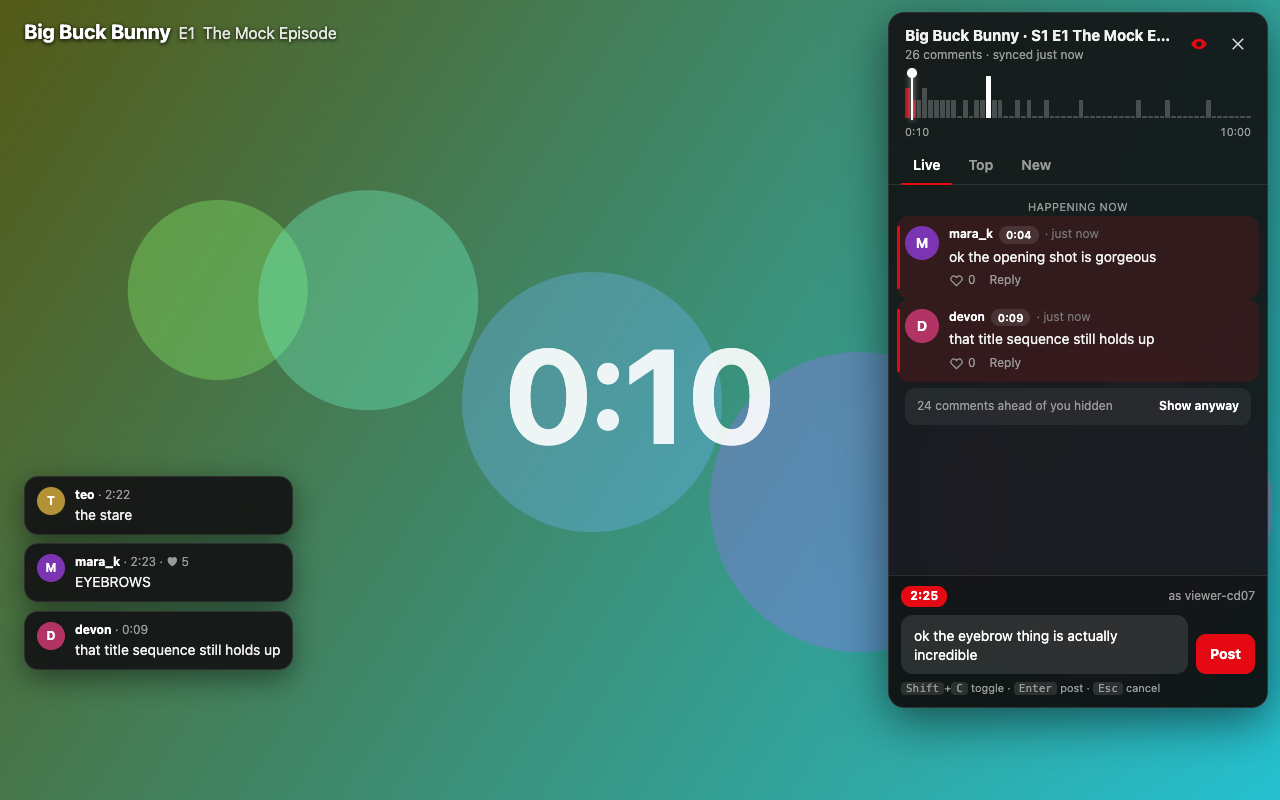
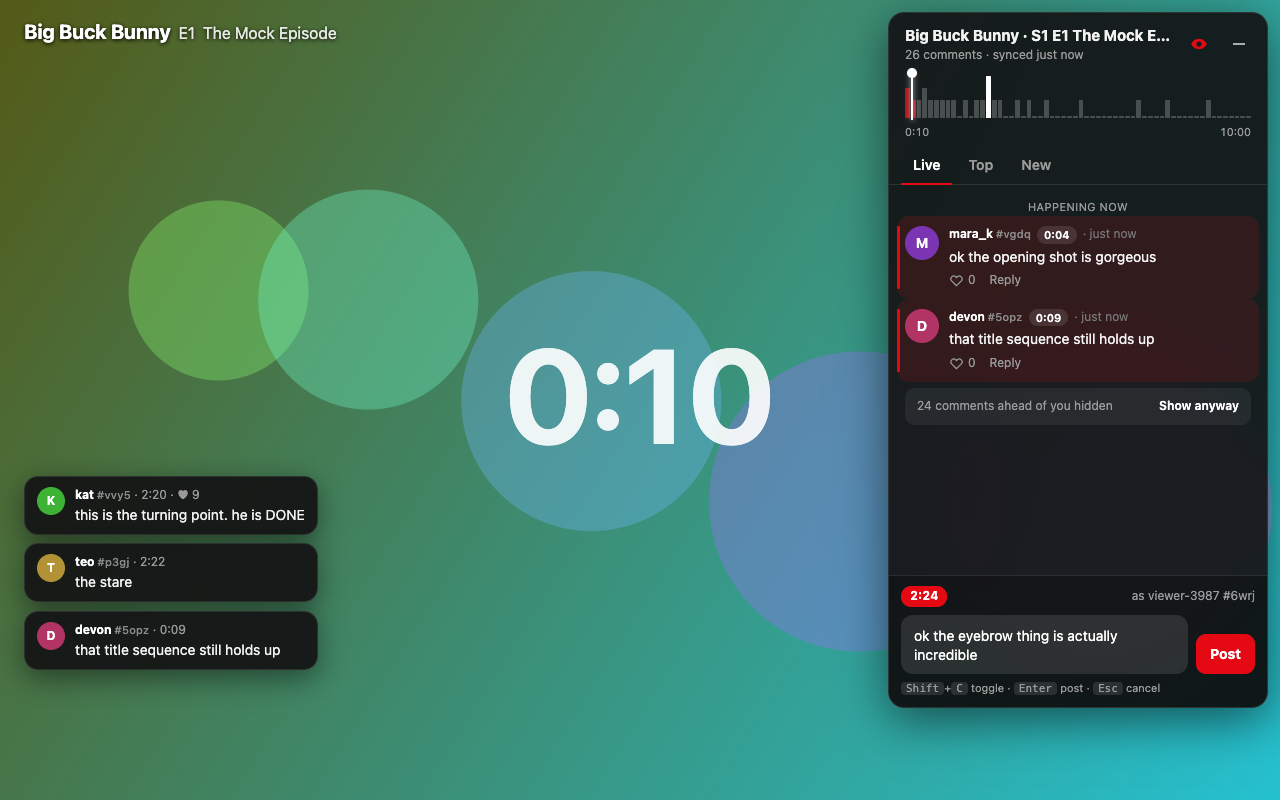
0.1.4: simpler popup (server URLs under Advanced), always pause while typing, minimize glyph, histogram folds to strip width, inject into open tabs on install
Claude-Session: https://claude.ai/code/session_01PgkiHjZ5KdUR33NwcsYLor

diff --git a/dev/inject.js b/dev/inject.js
@@ -33,7 +33,7 @@
     const top = comments.filter((c) => c.parentId == null).sort((a, b) => b.likeCount - a.likeCount);
     mem.local['title:' + vid] = { meta: { videoId: vid, name: '', duration, count: top.length, totalWithReplies: comments.length, bucketSeconds: B, bucketCounts, histSeconds: HS, hist, top, newest: [...top].sort((a, b) => b.createdAt - a.createdAt), generatedAt: Date.now() - 60e3 }, buckets, mine: [], likes: {}, deleted: {}, savedAt: Date.now() };
   }
-  mem.sync.settings = { readBase: "http://localhost:3131", writeBase: "http://localhost:3131", displayName: 'chad', spoilerGuard: true, showToasts: true, pauseOnCompose: true, panelOpen: true };
+  mem.sync.settings = { readBase: "http://localhost:3131", writeBase: "http://localhost:3131", displayName: 'chad', spoilerGuard: true, showToasts: true, panelOpen: true };
 })();
 
 // Shared helpers for the content scripts. Everything lives under window.NFC to avoid globals.
@@ -58,6 +58,9 @@ window.NFC = window.NFC || {};
   NFC.hash = (s) => { let h = 0; for (const ch of String(s)) h = (h * 31 + ch.charCodeAt(0)) | 0; return Math.abs(h); };
   NFC.avatarColor = (id) => `hsl(${NFC.hash(id) % 360} 55% 45%)`;
   NFC.initial = (name) => (String(name || '?').trim()[0] || '?').toUpperCase();
+  // Short tag derived from the hidden per-install id. Two people can pick the same display name, but their
+  // tags differ, and nobody can copy a tag without the id behind it.
+  NFC.tag = (id) => '#' + NFC.hash('tag:' + id).toString(36).slice(-4).padStart(4, '0');
 
   NFC.timeAgo = (ts) => {
     const d = Math.max(0, Date.now() - ts) / 1000;
@@ -257,6 +260,7 @@ button:focus-visible, textarea:focus-visible { outline: 2px solid var(--red); ou
 .meta { display: flex; align-items: center; gap: 6px; font-size: 12px; color: var(--muted); flex-wrap: wrap; }
 .meta .who { color: #fff; font-weight: 600; }
 .meta .age { color: #777; }
+.tag { color: #8a8a8a; font-weight: 500; font-size: 11px; margin-left: 3px; letter-spacing: .02em; }
 .meta .you { background: var(--bg3); color: #fff; font-size: 10px; padding: 0 5px; border-radius: 4px; font-weight: 600; }
 .tpill { background: var(--bg3); color: #fff; font-variant-numeric: tabular-nums; font-size: 11px; font-weight: 600; padding: 1px 7px; border-radius: 10px; }
 .tpill:hover { background: var(--red); }
@@ -313,7 +317,6 @@ kbd { background: var(--bg3); border-radius: 4px; padding: 0 5px; font: 11px ui-
     writeBase: 'https://netflix-comments-api.katzen-chad.workers.dev',
     spoilerGuard: true,
     showToasts: true,
-    pauseOnCompose: true,
     panelOpen: true,
   };
   const META_TTL = 45_000, BUCKET_TTL = 60_000, MINE_TTL = 15 * 60_000, CACHE_TITLES = 25;
@@ -629,7 +632,7 @@ kbd { background: var(--bg3); border-radius: 4px; padding: 0 5px; font: 11px ui-
 
   const ICON = {
     chat: '<svg viewBox="0 0 24 24"><path d="M4 4h16a2 2 0 0 1 2 2v9a2 2 0 0 1-2 2H9l-5 4v-4H4a2 2 0 0 1-2-2V6a2 2 0 0 1 2-2z"/></svg>',
-    close: '<svg viewBox="0 0 24 24"><path d="M18.3 5.7 12 12l6.3 6.3-1.4 1.4L10.6 13.4 4.3 19.7 2.9 18.3 9.2 12 2.9 5.7l1.4-1.4 6.3 6.3 6.3-6.3z"/></svg>',
+    close: '<svg viewBox="0 0 24 24"><path d="M4 11h16v2H4z"/></svg>',
     eye: '<svg viewBox="0 0 24 24"><path d="M12 5c5 0 9 4 10.5 7-1.5 3-5.5 7-10.5 7S3 15 1.5 12C3 9 7 5 12 5zm0 3.5a3.5 3.5 0 1 0 0 7 3.5 3.5 0 0 0 0-7z"/></svg>',
     eyeOff: '<svg viewBox="0 0 24 24"><path d="M2.3 3.7 3.7 2.3l18 18-1.4 1.4-3.3-3.3C15.5 19.3 13.8 19.7 12 19.7 7 19.7 3 15.7 1.5 12.7c.8-1.6 2.2-3.4 4-4.9zM12 5.3c5 0 9 4 10.5 7.4-.6 1.2-1.5 2.5-2.7 3.7l-2.6-2.6a3.8 3.8 0 0 0-4.5-4.5L9.9 6.5c.7-.8 1.4-1.2 2.1-1.2z"/></svg>',
     heart: '<svg viewBox="0 0 24 24"><path d="M12 20.3 4.3 12.6a4.6 4.6 0 0 1 6.5-6.5L12 7.3l1.2-1.2a4.6 4.6 0 0 1 6.5 6.5z"/></svg>',
@@ -679,7 +682,7 @@ kbd { background: var(--bg3); border-radius: 4px; padding: 0 5px; font: 11px ui-
   <div class="hdr">
     <div class="ttl"><div class="name">Community Swim</div><div class="sub">loading…</div></div>
     <button class="ib spoiler on" title="Spoiler guard: hiding comments ahead of you">${ICON.eye}</button>
-    <button class="ib close" title="Hide (Shift+C)">${ICON.close}</button>
+    <button class="ib close" title="Minimize (Shift+C)">${ICON.close}</button>
   </div>
   <div class="strip" title="Comment density. Click to seek."><div class="hist"></div><div class="play"></div><div class="tt">0:00</div></div>
   <div class="times"><span class="t-now">0:00</span><span class="t-end">0:00</span></div>
@@ -723,6 +726,7 @@ kbd { background: var(--bg3); border-radius: 4px; padding: 0 5px; font: 11px ui-
         this.renderList(true);
         this.el.list.scrollTop = 0;
       });
+      if (typeof ResizeObserver !== 'undefined') new ResizeObserver(() => this.renderStrip()).observe(this.el.strip);
       this.el.strip.addEventListener('mousemove', (e) => {
         const r = this.el.strip.getBoundingClientRect();
         const f = Math.min(1, Math.max(0, (e.clientX - r.left) / r.width));
@@ -782,7 +786,7 @@ kbd { background: var(--bg3); border-radius: 4px; padding: 0 5px; font: 11px ui-
     }
     applySettings() {
       const s = store.settings;
-      this.$('.who-am-i').textContent = 'as ' + store.displayName();
+      this.$('.who-am-i').textContent = 'as ' + store.displayName() + ' ' + NFC.tag(store.user.userId);
       if (this.el.drawer.classList.contains('hide') === !!s.panelOpen) {
         this.el.drawer.classList.toggle('hide', !s.panelOpen);
         this.el.pill.classList.toggle('hide', !!s.panelOpen);
@@ -852,22 +856,24 @@ kbd { background: var(--bg3); border-radius: 4px; padding: 0 5px; font: 11px ui-
 
     renderStrip() {
       const hist = this.title?.meta?.hist ?? [];
-      const max = Math.max(1, ...hist);
-      if (this.el.hist.childElementCount !== hist.length) {
-        this.el.hist.innerHTML = hist.map(() => '<i></i>').join('');
-      }
+      // One bar per 10-s bin overflows the strip on long titles (a 42-min episode is 253 bins), which
+      // stretches the scale. Fold bins into however many 3-px bars fit the strip width instead.
+      const width = this.el.strip.clientWidth || 320;
+      const n = hist.length ? Math.min(hist.length, Math.max(24, Math.floor(width / 3))) : 0;
+      const bins = new Array(n).fill(0);
+      for (let i = 0; i < hist.length; i++) bins[Math.min(n - 1, Math.floor((i / hist.length) * n))] += hist[i];
+      const max = Math.max(1, ...bins);
+      if (this.el.hist.childElementCount !== n) this.el.hist.innerHTML = bins.map(() => '<i></i>').join('');
       const bars = this.el.hist.children;
-      for (let i = 0; i < hist.length; i++) {
-        const h = hist[i] ? 6 + Math.round((hist[i] / max) * 36) : 2;
-        bars[i].style.height = h + 'px';
-        bars[i].classList.toggle('hot', hist[i] >= max * 0.8 && hist[i] > 2);
+      for (let i = 0; i < n; i++) {
+        bars[i].style.height = (bins[i] ? 6 + Math.round((bins[i] / max) * 36) : 2) + 'px';
+        bars[i].classList.toggle('hot', bins[i] >= max * 0.8 && bins[i] > 2);
       }
       this.renderStripProgress();
     }
     renderStripProgress() {
-      const hs = this.title?.meta?.histSeconds ?? 10;
-      const idx = Math.floor(this.now / hs);
       const bars = this.el.hist.children;
+      const idx = this.duration ? Math.floor((this.now / this.duration) * bars.length) : -1;
       for (let i = 0; i < bars.length; i++) bars[i].classList.toggle('past', i <= idx);
     }
 
@@ -924,7 +930,7 @@ kbd { background: var(--bg3); border-radius: 4px; padding: 0 5px; font: 11px ui-
 <div class="${cls}" data-id="${esc(c.id)}">
   <div class="av" style="background:${avatarColor(c.authorId)}">${esc(initial(c.authorName))}</div>
   <div class="bd">
-    <div class="meta"><span class="who">${esc(c.authorName)}</span>${c.mine ? '<span class="you">you</span>' : ''}${isReply ? '' : `<button class="tpill" data-act="seek" data-t="${c.t}" title="Jump to ${fmtTime(c.t)}">${fmtTime(c.t)}</button>`}<span class="age">· ${timeAgo(c.createdAt)}${status}</span></div>
+    <div class="meta"><span class="who">${esc(c.authorName)}<span class="tag">${NFC.tag(c.authorId)}</span></span>${c.mine ? '<span class="you">you</span>' : ''}${isReply ? '' : `<button class="tpill" data-act="seek" data-t="${c.t}" title="Jump to ${fmtTime(c.t)}">${fmtTime(c.t)}</button>`}<span class="age">· ${timeAgo(c.createdAt)}${status}</span></div>
     <div class="txt">${esc(c.body)}</div>
     <div class="acts">
       <button class="like ${c.liked ? 'on' : ''}" data-act="like" ${canAct ? '' : 'disabled'}>${ICON.heart}<span>${compact(c.likeCount ?? 0)}</span></button>
@@ -962,7 +968,7 @@ kbd { background: var(--bg3); border-radius: 4px; padding: 0 5px; font: 11px ui-
     // ---------- composer ----------
     beginCompose() {
       if (this.composeT == null) { this.composeT = this.replyTo ? this.replyTo.t : this.now; this.el.at.textContent = fmtTime(this.composeT); }
-      if (store.settings.pauseOnCompose && this.video && !this.video.paused) {
+      if (this.video && !this.video.paused) {
         try { NFC.site.pause(this.video); this.pausedByUs = true; } catch { /* ignore */ }
       }
     }
@@ -1011,7 +1017,7 @@ kbd { background: var(--bg3); border-radius: 4px; padding: 0 5px; font: 11px ui-
     toast(c) {
       const el = document.createElement('div');
       el.className = 'toast'; el.dataset.id = c.id;
-      el.innerHTML = `<div class="av" style="background:${avatarColor(c.authorId)}">${esc(initial(c.authorName))}</div><div><div class="who"><b>${esc(c.authorName)}</b> · ${fmtTime(c.t)}${c.likeCount ? ` · ♥ ${compact(c.likeCount)}` : ''}</div><div class="txt">${esc(c.body)}</div></div>`;
+      el.innerHTML = `<div class="av" style="background:${avatarColor(c.authorId)}">${esc(initial(c.authorName))}</div><div><div class="who"><b>${esc(c.authorName)}</b><span class="tag">${NFC.tag(c.authorId)}</span> · ${fmtTime(c.t)}${c.likeCount ? ` · ♥ ${compact(c.likeCount)}` : ''}</div><div class="txt">${esc(c.body)}</div></div>`;
       this.el.toasts.appendChild(el);
       while (this.el.toasts.childElementCount > MAX_TOASTS) this.el.toasts.firstElementChild.remove();
       this.expireToast(el, TOAST_MS);

diff --git a/extension/content/ui.js b/extension/content/ui.js
@@ -7,7 +7,7 @@
 
   const ICON = {
     chat: '<svg viewBox="0 0 24 24"><path d="M4 4h16a2 2 0 0 1 2 2v9a2 2 0 0 1-2 2H9l-5 4v-4H4a2 2 0 0 1-2-2V6a2 2 0 0 1 2-2z"/></svg>',
-    close: '<svg viewBox="0 0 24 24"><path d="M18.3 5.7 12 12l6.3 6.3-1.4 1.4L10.6 13.4 4.3 19.7 2.9 18.3 9.2 12 2.9 5.7l1.4-1.4 6.3 6.3 6.3-6.3z"/></svg>',
+    close: '<svg viewBox="0 0 24 24"><path d="M4 11h16v2H4z"/></svg>',
     eye: '<svg viewBox="0 0 24 24"><path d="M12 5c5 0 9 4 10.5 7-1.5 3-5.5 7-10.5 7S3 15 1.5 12C3 9 7 5 12 5zm0 3.5a3.5 3.5 0 1 0 0 7 3.5 3.5 0 0 0 0-7z"/></svg>',
     eyeOff: '<svg viewBox="0 0 24 24"><path d="M2.3 3.7 3.7 2.3l18 18-1.4 1.4-3.3-3.3C15.5 19.3 13.8 19.7 12 19.7 7 19.7 3 15.7 1.5 12.7c.8-1.6 2.2-3.4 4-4.9zM12 5.3c5 0 9 4 10.5 7.4-.6 1.2-1.5 2.5-2.7 3.7l-2.6-2.6a3.8 3.8 0 0 0-4.5-4.5L9.9 6.5c.7-.8 1.4-1.2 2.1-1.2z"/></svg>',
     heart: '<svg viewBox="0 0 24 24"><path d="M12 20.3 4.3 12.6a4.6 4.6 0 0 1 6.5-6.5L12 7.3l1.2-1.2a4.6 4.6 0 0 1 6.5 6.5z"/></svg>',
@@ -57,7 +57,7 @@
   <div class="hdr">
     <div class="ttl"><div class="name">Community Swim</div><div class="sub">loading…</div></div>
     <button class="ib spoiler on" title="Spoiler guard: hiding comments ahead of you">${ICON.eye}</button>
-    <button class="ib close" title="Hide (Shift+C)">${ICON.close}</button>
+    <button class="ib close" title="Minimize (Shift+C)">${ICON.close}</button>
   </div>
   <div class="strip" title="Comment density. Click to seek."><div class="hist"></div><div class="play"></div><div class="tt">0:00</div></div>
   <div class="times"><span class="t-now">0:00</span><span class="t-end">0:00</span></div>
@@ -101,6 +101,7 @@
         this.renderList(true);
         this.el.list.scrollTop = 0;
       });
+      if (typeof ResizeObserver !== 'undefined') new ResizeObserver(() => this.renderStrip()).observe(this.el.strip);
       this.el.strip.addEventListener('mousemove', (e) => {
         const r = this.el.strip.getBoundingClientRect();
         const f = Math.min(1, Math.max(0, (e.clientX - r.left) / r.width));
@@ -230,22 +231,24 @@
 
     renderStrip() {
       const hist = this.title?.meta?.hist ?? [];
-      const max = Math.max(1, ...hist);
-      if (this.el.hist.childElementCount !== hist.length) {
-        this.el.hist.innerHTML = hist.map(() => '<i></i>').join('');
-      }
+      // One bar per 10-s bin overflows the strip on long titles (a 42-min episode is 253 bins), which
+      // stretches the scale. Fold bins into however many 3-px bars fit the strip width instead.
+      const width = this.el.strip.clientWidth || 320;
+      const n = hist.length ? Math.min(hist.length, Math.max(24, Math.floor(width / 3))) : 0;
+      const bins = new Array(n).fill(0);
+      for (let i = 0; i < hist.length; i++) bins[Math.min(n - 1, Math.floor((i / hist.length) * n))] += hist[i];
+      const max = Math.max(1, ...bins);
+      if (this.el.hist.childElementCount !== n) this.el.hist.innerHTML = bins.map(() => '<i></i>').join('');
       const bars = this.el.hist.children;
-      for (let i = 0; i < hist.length; i++) {
-        const h = hist[i] ? 6 + Math.round((hist[i] / max) * 36) : 2;
-        bars[i].style.height = h + 'px';
-        bars[i].classList.toggle('hot', hist[i] >= max * 0.8 && hist[i] > 2);
+      for (let i = 0; i < n; i++) {
+        bars[i].style.height = (bins[i] ? 6 + Math.round((bins[i] / max) * 36) : 2) + 'px';
+        bars[i].classList.toggle('hot', bins[i] >= max * 0.8 && bins[i] > 2);
       }
       this.renderStripProgress();
     }
     renderStripProgress() {
-      const hs = this.title?.meta?.histSeconds ?? 10;
-      const idx = Math.floor(this.now / hs);
       const bars = this.el.hist.children;
+      const idx = this.duration ? Math.floor((this.now / this.duration) * bars.length) : -1;
       for (let i = 0; i < bars.length; i++) bars[i].classList.toggle('past', i <= idx);
     }
 
@@ -340,7 +343,7 @@
     // ---------- composer ----------
     beginCompose() {
       if (this.composeT == null) { this.composeT = this.replyTo ? this.replyTo.t : this.now; this.el.at.textContent = fmtTime(this.composeT); }
-      if (store.settings.pauseOnCompose && this.video && !this.video.paused) {
+      if (this.video && !this.video.paused) {
         try { NFC.site.pause(this.video); this.pausedByUs = true; } catch { /* ignore */ }
       }
     }

diff --git a/extension/popup.html b/extension/popup.html
@@ -19,33 +19,38 @@
   .status { color: #aaa; font-size: 12px; margin-top: 10px; min-height: 16px; }
   .status.err { color: #ff6b6b; }
   details { margin-top: 12px; color: #999; font-size: 12px; }
+  details p { margin: 6px 0; }
+  .hint { margin: 0 0 4px; color: #aaa; font-size: 12px; }
   summary { cursor: pointer; }
   code { font: 11px ui-monospace, Menlo, monospace; background: #222; padding: 1px 4px; border-radius: 4px; }
 </style>
 </head>
 <body>
   <h1><span class="dot" id="dot"></span>Community Swim</h1>
+  <p class="hint">Open an episode on Hulu or Netflix and the drawer appears on the right. <code>Shift+C</code> opens the composer. If you installed while an episode was open, refresh that tab once.</p>
 
   <label for="displayName">Display name</label>
   <input type="text" id="displayName" maxlength="40" placeholder="viewer-1234">
 
-  <label for="readBase">Comments read URL (snapshot CDN)</label>
-  <input type="url" id="readBase" placeholder="https://netflix-comments-api.katzen-chad.workers.dev">
-  <label for="writeBase">Comments write URL (API)</label>
-  <input type="url" id="writeBase" placeholder="https://netflix-comments-api.katzen-chad.workers.dev">
-
   <div class="chk"><input type="checkbox" id="spoilerGuard"><label for="spoilerGuard" style="margin:0;color:#ddd">Spoiler guard: hide comments ahead of where I am</label></div>
   <div class="chk"><input type="checkbox" id="showToasts"><label for="showToasts" style="margin:0;color:#ddd">Pop up comments as I pass them</label></div>
-  <div class="chk"><input type="checkbox" id="pauseOnCompose"><label for="pauseOnCompose" style="margin:0;color:#ddd">Pause the video while I type</label></div>
 
-  <div class="row"><button id="save">Save</button><button class="sec" id="test">Test server</button></div>
+  <div class="row"><button id="save">Save</button></div>
   <div class="status" id="status"></div>
 
   <details>
     <summary>Identity</summary>
     <p>Your anonymous id: <code id="uid"></code><br>Your tag (shown after your name so nobody can pose as you): <code id="utag"></code><br>Comments and likes are tied to the id. Resetting makes a fresh identity (you lose the ability to delete old comments).</p>
     <button class="sec" id="reset">Reset identity</button>
-    <p>Hotkey on Netflix / Hulu: <code>Shift+C</code> toggles the drawer / focuses the composer.</p>
+  </details>
+  <details>
+    <summary>Advanced (self-hosting)</summary>
+    <p>Only change these if you run your own comment server. Leave blank to use the default.</p>
+    <label for="readBase">Comments read URL (snapshot CDN)</label>
+    <input type="url" id="readBase" placeholder="https://netflix-comments-api.katzen-chad.workers.dev">
+    <label for="writeBase">Comments write URL (API)</label>
+    <input type="url" id="writeBase" placeholder="https://netflix-comments-api.katzen-chad.workers.dev">
+    <div class="row"><button class="sec" id="test">Test server</button></div>
   </details>
   <script src="popup.js"></script>
 </body>

diff --git a/extension/popup.js b/extension/popup.js
@@ -1,12 +1,13 @@
-const DEFAULTS = { displayName: '', readBase: 'https://netflix-comments-api.katzen-chad.workers.dev', writeBase: 'https://netflix-comments-api.katzen-chad.workers.dev', spoilerGuard: true, showToasts: true, pauseOnCompose: true, panelOpen: true };
+const DEFAULTS = { displayName: '', readBase: 'https://netflix-comments-api.katzen-chad.workers.dev', writeBase: 'https://netflix-comments-api.katzen-chad.workers.dev', spoilerGuard: true, showToasts: true, panelOpen: true };
 const $ = (id) => document.getElementById(id);
 const fields = ['displayName', 'readBase', 'writeBase'];
-const checks = ['spoilerGuard', 'showToasts', 'pauseOnCompose'];
+const checks = ['spoilerGuard', 'showToasts'];
 let settings = { ...DEFAULTS };
 
 async function load() {
   settings = { ...DEFAULTS, ...(await chrome.storage.sync.get('settings')).settings };
   for (const f of fields) $(f).value = settings[f] ?? '';
+  for (const f of ['readBase', 'writeBase']) if ($(f).value === DEFAULTS[f]) $(f).value = '';
   for (const c of checks) $(c).checked = !!settings[c];
   const { user } = await chrome.storage.local.get('user');
   $('uid').textContent = user?.userId ?? '(created on first visit)';
@@ -18,7 +19,7 @@ function originPattern(url) { const u = new URL(url); return `${u.protocol}//${u
 
 async function save() {
   const next = { ...settings };
-  for (const f of fields) next[f] = $(f).value.trim();
+  for (const f of fields) next[f] = $(f).value.trim() || DEFAULTS[f];
   for (const c of checks) next[c] = $(c).checked;
   if (!next.displayName) next.displayName = settings.displayName || 'viewer';
   const origins = [];
@@ -57,7 +58,7 @@ function status(msg, err = false) { $('status').textContent = msg; $('status').c
 $('save').addEventListener('click', save);
 $('test').addEventListener('click', () => test(false));
 $('reset').addEventListener('click', async () => {
-  if ($('reset').dataset.c) { await chrome.storage.local.remove('user'); $('uid').textContent = '(created on next Netflix visit)'; $('reset').textContent = 'Reset identity'; delete $('reset').dataset.c; return; }
+  if ($('reset').dataset.c) { await chrome.storage.local.remove('user'); $('uid').textContent = '(created on next visit)'; $('reset').textContent = 'Reset identity'; delete $('reset').dataset.c; return; }
   $('reset').dataset.c = '1'; $('reset').textContent = 'Really reset?'; setTimeout(() => { delete $('reset').dataset.c; $('reset').textContent = 'Reset identity'; }, 3000);
 });
 load();

diff --git a/extension/background.js b/extension/background.js
@@ -44,3 +44,20 @@ function originPattern(url) {
   const u = new URL(url);
   return `${u.protocol}//${u.hostname}/*`;
 }
+
+// On install/update, inject the content scripts into Hulu/Netflix tabs that are already open, so the user
+// doesn't have to refresh. Tabs that already run the scripts (window.NFC set) are skipped.
+chrome.runtime.onInstalled.addListener(async () => {
+  const cs = chrome.runtime.getManifest().content_scripts?.[0];
+  if (!cs || !chrome.scripting) return;
+  let tabs = [];
+  try { tabs = await chrome.tabs.query({ url: cs.matches }); } catch { return; }
+  for (const tab of tabs) {
+    if (!tab.id) continue;
+    try {
+      const [{ result: loaded } = {}] = await chrome.scripting.executeScript({ target: { tabId: tab.id }, func: () => !!window.NFC });
+      if (loaded) continue;
+      await chrome.scripting.executeScript({ target: { tabId: tab.id }, files: cs.js });
+    } catch { /* tab not scriptable (chrome://, discarded, no permission) */ }
+  }
+});

diff --git a/extension/content/store.js b/extension/content/store.js
@@ -12,7 +12,6 @@
     writeBase: 'https://netflix-comments-api.katzen-chad.workers.dev',
     spoilerGuard: true,
     showToasts: true,
-    pauseOnCompose: true,
     panelOpen: true,
   };
   const META_TTL = 45_000, BUCKET_TTL = 60_000, MINE_TTL = 15 * 60_000, CACHE_TITLES = 25;

diff --git a/README.md b/README.md
@@ -30,14 +30,14 @@ cd server && npm start          # http://localhost:3131  (Node >= 22.5, zero dep
    per episode (`hulu-<uuid>` / `nf-<id>`).
 
 The extension defaults to the deployed server for Hulu/Netflix and to `http://localhost:3131` on the mock player.
-Change either URL in the toolbar popup.
+Change either URL under *Advanced* in the toolbar popup.
 
 ## Using it
 
 | Action | How |
 |---|---|
 | Show / hide the drawer, focus the composer | `Shift+C`, or the pill on the right edge |
-| Comment on this moment | Type in the composer. The red time chip freezes at the moment you started typing. `Enter` posts, `Esc` cancels. The video pauses while you type and resumes when you post (toggle in popup). |
+| Comment on this moment | Type in the composer. The red time chip freezes at the moment you started typing. `Enter` posts, `Esc` cancels. The video pauses while you type and resumes when you post. |
 | Read what people said here | **Live** tab: comments in time order, the ones from the last ~25 s highlighted as *happening now*, auto-scrolls with playback. |
 | Best comments | **Top** tab (by likes, then replies). **New** tab is newest first. |
 | Spoiler guard | Comments ahead of the playhead are hidden by default. Eye icon in the header or "Show anyway" reveals them. |

diff --git a/store/LISTING.md b/store/LISTING.md
@@ -44,6 +44,8 @@ Works on hulu.com and netflix.com watch pages. Not affiliated with Hulu or Netfl
 **Permission justifications**
 
 - `storage` — saves the user's display name, settings, anonymous id, and a cache of comments for recently watched episodes so the drawer works offline.
+- `scripting` — on install, injects the comment drawer into Hulu/Netflix tabs that are already open so the user does not have to refresh. Nothing else is injected; only the same packaged content scripts.
+- Host permission `*://*.hulu.com/*`, `*://*.netflix.com/*` — same purpose as the content script match (needed for the one-time injection above).
 - Host permission `https://*.workers.dev/*` — the extension's comment server (reads cached comment snapshots, posts comments/likes). Fetched from the background service worker; no other hosts are contacted.
 - Content script on `*://*.netflix.com/*` and `*://*.hulu.com/*` — required to draw the comment drawer over the player and read the player's current playback time.
 
